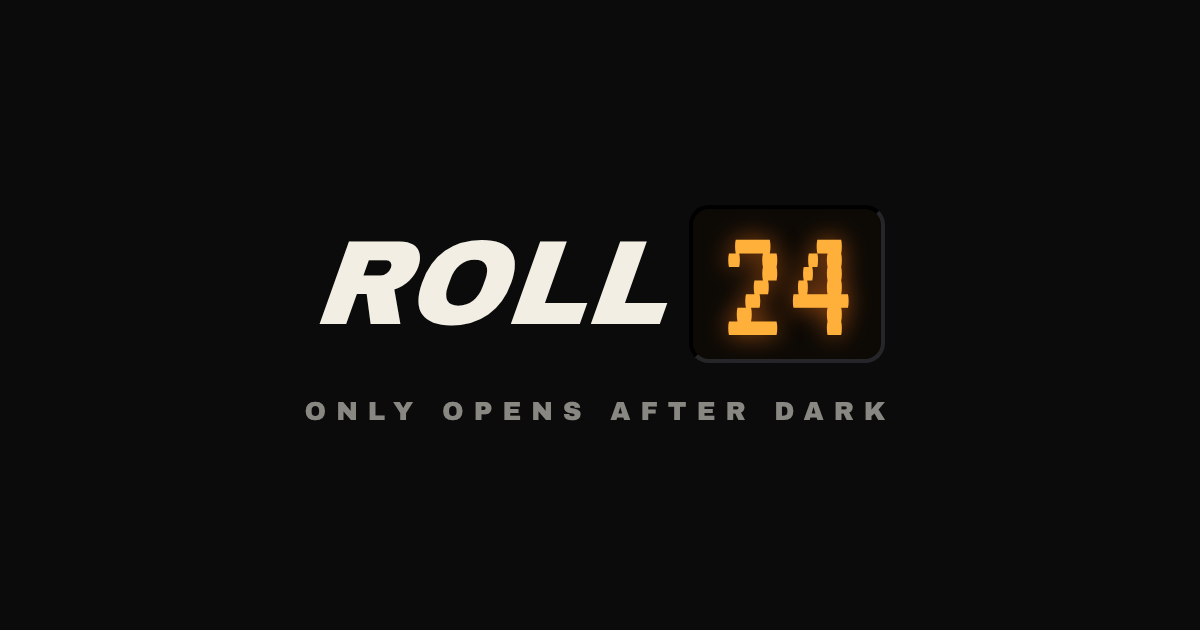
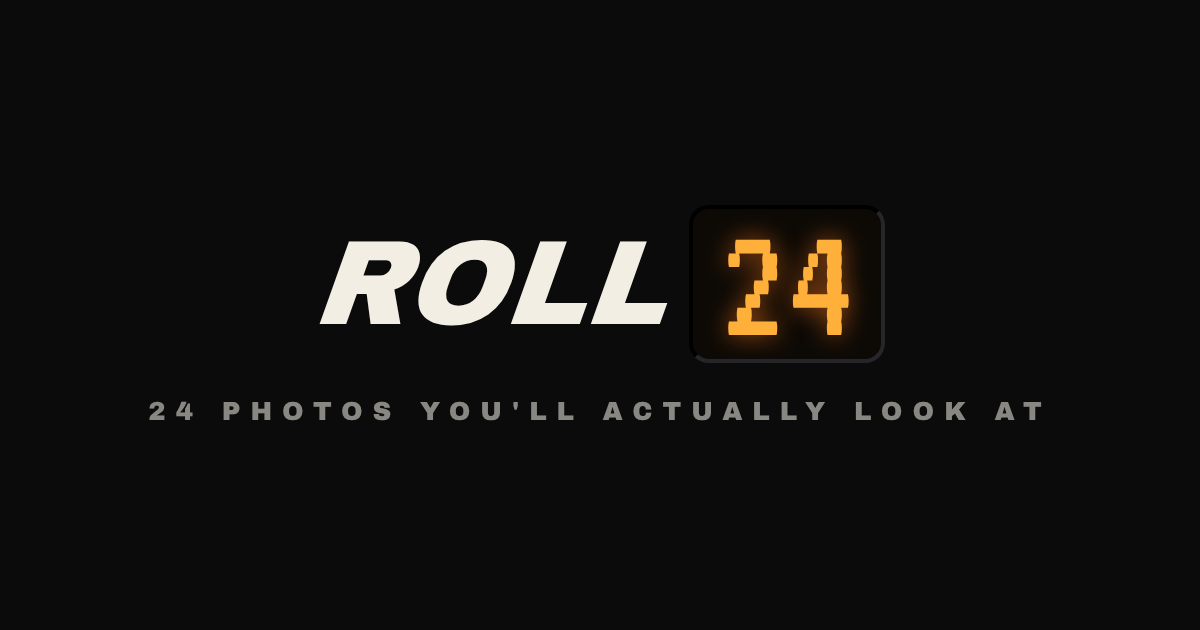
Add files via upload

Changed region(s): [[0.1233, 0.6333, 0.8017, 0.6635], [0.8325, 0.6333, 0.8633, 0.6635]]

diff --git a/index.html b/index.html
@@ -3,11 +3,11 @@
 <head>
 <meta charset="utf-8">
 <meta name="viewport" content="width=device-width, initial-scale=1, viewport-fit=cover">
-<title>ROLL24 — a disposable camera that only opens after dark</title>
-<meta name="description" content="24 shots a night. No previews, no deletes, flash always on. Your roll develops at 9:00 the next morning. Join the waitlist.">
+<title>ROLL24 — a disposable camera on your phone</title>
+<meta name="description" content="A disposable camera on your phone. 24 shots. No previews. Your roll develops the next morning. Join the waitlist.">
 <meta name="theme-color" content="#0B0B0C">
-<meta property="og:title" content="ROLL24 — opens after dark">
-<meta property="og:description" content="A disposable camera app. 24 shots a night. Develops at 9:00.">
+<meta property="og:title" content="ROLL24 — a disposable camera on your phone">
+<meta property="og:description" content="24 shots. No previews. Develops tomorrow.">
 <meta property="og:image" content="og.png">
 <link rel="icon" href="icon.png">
 <link rel="apple-touch-icon" href="icon.png">
@@ -39,7 +39,7 @@ header{display:flex;justify-content:space-between;align-items:center;padding:22p
 /* hero */
 .hero{display:grid;grid-template-columns:1fr;gap:40px;padding:28px 0 56px;align-items:center}
 @media(min-width:900px){.hero{grid-template-columns:1.1fr .9fr;gap:64px;padding:56px 0 88px}}
-h1{font-family:'Archivo Black',sans-serif;font-size:clamp(40px,10vw,76px);line-height:.98;margin:14px 0 18px;letter-spacing:-.01em}
+h1{font-family:'Archivo Black',sans-serif;font-size:clamp(38px,9.5vw,64px);line-height:.98;margin:14px 0 18px;letter-spacing:-.01em}
 h1 em{font-style:italic;color:var(--amber)}
 .sub{font-size:18px;line-height:1.55;color:var(--dim);max-width:520px;margin:0 0 28px}
 
@@ -131,15 +131,15 @@ footer a{color:var(--dim)}
     <a class="logo" href="#" aria-label="ROLL24 home">
       <span class="brand">ROLL</span><span class="lcd">24</span>
     </a>
-    <div class="lamp"><span class="dot"></span><span class="label" id="lampText">Flash ready</span></div>
+    <div class="lamp"><span class="dot"></span><span class="label">Flash ready</span></div>
   </header>
 
   <main>
     <div class="hero">
       <div>
-        <span class="label">A disposable camera for your phone</span>
-        <h1>Only opens<br><em>after dark.</em></h1>
-        <p class="sub">24 shots a night. No previews, no deletes, flash always on. Your roll develops at 9:00 the next morning — and so does everyone else's.</p>
+        <span class="label">24 shots · No previews · Develops tomorrow</span>
+        <h1>A disposable camera<br><em>on your phone.</em></h1>
+        <p class="sub">Shoot your trip, your night out, your birthday. No checking, no retakes. When you finish the roll, it develops at 9:00 the next morning.</p>
 
         <div class="counter" aria-live="polite">
           <span class="lcd" id="count">---</span>
@@ -151,24 +151,12 @@ footer a{color:var(--dim)}
             <label for="email">Email</label>
             <input id="email" name="email" type="email" inputmode="email" autocomplete="email" placeholder="you@example.com" required>
           </div>
-          <div class="row2">
-            <div class="field">
-              <label for="night">Next night out</label>
-              <select id="night" name="night" required>
-                <option value="" disabled selected>Pick one</option>
-                <option value="this-weekend">This weekend</option>
-                <option value="next-week">Next week</option>
-                <option value="this-month">This month</option>
-                <option value="not-sure">Not sure yet</option>
-              </select>
-            </div>
-            <div class="field">
-              <label for="city">City <span style="color:var(--faint)">(optional)</span></label>
-              <input id="city" name="city" type="text" autocomplete="address-level2" placeholder="Würzburg" maxlength="60">
-            </div>
+          <div class="field">
+            <label for="city">City <span style="color:var(--faint)">(optional)</span></label>
+            <input id="city" name="city" type="text" autocomplete="address-level2" placeholder="Würzburg" maxlength="60">
           </div>
           <button type="submit" id="btn">SAVE MY SPOT</button>
-          <p class="fine">iPhone first. One email when it launches, nothing else.</p>
+          <p class="fine">Free for you and your friends. iPhone first. One email when it launches, nothing else.</p>
           <div class="msg" id="msg" role="status"></div>
         </form>
       </div>
@@ -176,7 +164,6 @@ footer a{color:var(--dim)}
       <div class="cam" aria-hidden="true">
         <div class="cam-top"><span class="brand">ROLL</span><span class="lcd" id="camCount">24</span></div>
         <div class="vf" id="vf">
-          <div class="closed" id="closed"><span>COMES OUT AFTER DARK</span><small>Opens at 20:00</small></div>
           <div class="stamp" id="stamp"></div>
         </div>
         <div class="cam-bottom"><div class="ridges"><i></i><i></i><i></i><i></i><i></i></div><div class="shutter"></div><div class="ridges"><i></i><i></i><i></i><i></i><i></i></div></div>
@@ -184,15 +171,15 @@ footer a{color:var(--dim)}
     </div>
 
     <section>
-      <span class="label">The rules of the roll</span>
-      <h2>It's annoying on purpose.</h2>
+      <span class="label">How it works</span>
+      <h2>Like the real thing.<br>On purpose.</h2>
       <div class="rules">
-        <div class="rule"><span class="n">01</span><div><h3>Only after dark</h3><p>The lens opens at 20:00 and closes at 05:00. During the day, it won't even let you in.</p></div></div>
-        <div class="rule"><span class="n">02</span><div><h3>24 shots</h3><p>One roll per night. You'll stop taking the same photo twelve times.</p></div></div>
-        <div class="rule"><span class="n">03</span><div><h3>No preview</h3><p>You won't see what you shot. Look at the night, not your screen.</p></div></div>
-        <div class="rule"><span class="n">04</span><div><h3>No deletes</h3><p>The blurry one, the blink, the friend mid-sentence. They all stay.</p></div></div>
-        <div class="rule"><span class="n">05</span><div><h3>Flash on</h3><p>Hard, close, slightly too bright. The way disposables always looked.</p></div></div>
-        <div class="rule"><span class="n">06</span><div><h3>Develops at 9:00</h3><p>The next morning, the whole night shows up at once, with a date stamp in the corner.</p></div></div>
+        <div class="rule"><span class="n">01</span><div><h3>24 shots</h3><p>One roll, 24 photos. A night, a weekend, a whole trip. You decide when it's done.</p></div></div>
+        <div class="rule"><span class="n">02</span><div><h3>No preview</h3><p>You won't see what you shot. Look at the moment, not your screen.</p></div></div>
+        <div class="rule"><span class="n">03</span><div><h3>No deletes</h3><p>The blurry one, the blink, the friend mid-sentence. They all stay.</p></div></div>
+        <div class="rule"><span class="n">04</span><div><h3>Develops tomorrow</h3><p>Finish the roll and it develops at 9:00 the next morning, film look and date stamp included.</p></div></div>
+        <div class="rule"><span class="n">05</span><div><h3>Every roll, kept</h3><p>Name it, write what happened, and it stays on your shelf: "Italy", "Lena's 25th", "Last night".</p></div></div>
+        <div class="rule"><span class="n">06</span><div><h3>Print it</h3><p>Turn any roll into an A4 contact sheet. Print it at home or at any photo kiosk.</p></div></div>
       </div>
     </section>
 
@@ -201,8 +188,8 @@ footer a{color:var(--dim)}
         <div>
           <span class="label">Shared rolls</span>
           <h2>One roll.<br>Everyone's camera.</h2>
-          <p>Start a roll, show the code, and your friends scan in. Everyone keeps their own 24 shots, and at 9:00 you all wake up to the whole night, from every angle.</p>
-          <p>You see who's on the roll. You don't see a single photo until it develops.</p>
+          <p>Start a roll, show the code, and your friends scan in. Everyone keeps their own 24 shots, and the next morning you all get the whole thing, from every angle.</p>
+          <p>You see who's on the roll. You don't see a single photo until it develops. Free with your friends.</p>
         </div>
         <div class="card" aria-label="Example of a shared roll card">
           <div class="top"><span class="label">Shared roll</span><span class="code">Q82HZF</span></div>
@@ -222,14 +209,14 @@ footer a{color:var(--dim)}
 
     <section class="final">
       <span class="label">Launching at 100</span>
-      <h2>Get on the roll.</h2>
+      <h2>Live it now.<br>See it tomorrow.</h2>
       <p class="sub">It launches when 100 people want it. Save your spot, and bring your friends: a roll is better with more cameras.</p>
       <a class="cta" href="#join" id="cta">SAVE MY SPOT</a>
     </section>
   </main>
 
   <footer>
-    <span>ROLL24 · opens after dark</span>
+    <span>ROLL24 · a disposable camera on your phone</span>
     <span>Emails are only used to tell you when ROLL24 launches.</span>
   </footer>
 </div>
@@ -257,13 +244,10 @@ footer a{color:var(--dim)}
       .catch(function () { document.getElementById("count").textContent = "---"; });
   }
 
-  // the camera mock follows the real rule: closed by day, open at night
+  // date stamp on the camera mock, like the corner of a disposable print
   (function () {
-    var h = new Date().getHours(), night = h >= 20 || h < 5;
-    document.getElementById("closed").style.display = night ? "none" : "flex";
-    document.getElementById("lampText").textContent = night ? "Lens open" : "Lens closed";
     var d = new Date(), yy = String(d.getFullYear()).slice(2);
-    document.getElementById("stamp").textContent = night ? "'" + yy + " " + String(d.getMonth() + 1).padStart(2, "0") + " " + String(d.getDate()).padStart(2, "0") : "";
+    document.getElementById("stamp").textContent = "'" + yy + " " + String(d.getMonth() + 1).padStart(2, "0") + " " + String(d.getDate()).padStart(2, "0");
   })();
 
   var form = document.getElementById("join"), msg = document.getElementById("msg"), btn = document.getElementById("btn");
@@ -272,18 +256,16 @@ footer a{color:var(--dim)}
   form.addEventListener("submit", function (e) {
     e.preventDefault();
     var email = form.email.value.trim().toLowerCase();
-    var night = form.night.value;
     var city = form.city.value.trim().slice(0, 60);
     if (!/^[^@\s]+@[^@\s]+\.[^@\s]+$/.test(email)) { show("err", "That email doesn't look right."); form.email.focus(); return; }
-    if (!night) { show("err", "Pick when your next night out is."); form.night.focus(); return; }
     btn.disabled = true; btn.textContent = "SAVING…";
     fetch(URL + "/rest/v1/waitlist", {
       method: "POST",
       headers: Object.assign({ "Prefer": "return=minimal" }, H),
-      body: JSON.stringify({ email: email, next_night: night, city: city || null, source: source })
+      body: JSON.stringify({ email: email, city: city || null, source: source })
     }).then(function (r) {
       if (r.ok) {
-        show("ok", "<b>YOU'RE ON THE ROLL.</b><br>We'll email you once, when it launches. Send this page to the friends you go out with.");
+        show("ok", "<b>YOU'RE ON THE ROLL.</b><br>We'll email you once, when it launches. Send this page to the friends you'd share a roll with.");
         form.reset(); loadCount();
       } else if (r.status === 409) {
         show("ok", "<b>ALREADY ON THE ROLL.</b><br>That email is saved. Send this page to a friend instead.");
